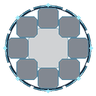
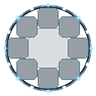
fix: アクションリングのTitle優先とスキル名の設定色を保持

diff --git a/10_plugin/AstralRecord/src/main/java/io/github/maaasu/astralRecord/feature/skill/service/SkillActionRingHud.java b/10_plugin/AstralRecord/src/main/java/io/github/maaasu/astralRecord/feature/skill/service/SkillActionRingHud.java
@@ -56,6 +56,7 @@ final class SkillActionRingHud {
         this.playerHud = playerHud;
         listener = new PacketAdapter(plugin, ListenerPriority.HIGHEST, PacketType.Play.Server.SET_ACTION_BAR_TEXT,
             PacketType.Play.Server.SYSTEM_CHAT, PacketType.Play.Server.SET_TITLE_TEXT,
+            PacketType.Play.Server.SET_SUBTITLE_TEXT, PacketType.Play.Server.SET_TITLES_ANIMATION,
             PacketType.Play.Server.CLEAR_TITLES) {
             @Override
             public void onPacketSending(PacketEvent event) {
@@ -100,9 +101,17 @@ final class SkillActionRingHud {
                 || type == PacketType.Play.Server.SYSTEM_CHAT && Boolean.TRUE.equals(event.getPacket().getBooleans().readSafely(0)))) {
                 event.setCancelled(true);
             }
-        } else if (type == PacketType.Play.Server.SET_TITLE_TEXT || type == PacketType.Play.Server.CLEAR_TITLES) {
-            // 到着したワールド案内や演出を優先し、閉じる際もその Title を消去しません。
-            view.titleSuperseded = true;
+        } else if (type == PacketType.Play.Server.SET_TITLE_TEXT
+            || type == PacketType.Play.Server.SET_SUBTITLE_TEXT
+            || type == PacketType.Play.Server.SET_TITLES_ANIMATION
+            || type == PacketType.Play.Server.CLEAR_TITLES) {
+            // 固定 HUD は閉じる演出まで Title を所有します。自身の送信は filters=false で監視を通りません。
+            if (view.sendFailed) {
+                // 送信失敗で所有を放棄した後に到着した Title は、後始末で消去しません。
+                view.titleSuperseded = true;
+            } else {
+                event.setCancelled(true);
+            }
         }
     }
 
@@ -133,9 +142,9 @@ final class SkillActionRingHud {
             this.bedrock = bedrock;
         }
 
-        /** 外部通知または送信失敗でリング表示が終了したかを返します。 */
+        /** 送信失敗でリング表示が終了したかを返します。 */
         boolean interrupted() {
-            return titleSuperseded || sendFailed;
+            return sendFailed;
         }
 
         /** 描画が変化したとき、または表示期限の前に、画面固定のフレームを送ります。 */

diff --git a/50_resourcepack/scripts/generate-action-ring-hud.py b/50_resourcepack/scripts/generate-action-ring-hud.py
@@ -79,7 +79,7 @@ def opening(frame):
     radius = 22 + 21 * ease
     fade = round(255 * ease)
     # Interior rings remain faint so the scenery and crosshair read through the center.
-    art.ellipse(CENTER, CENTER, 22 * ease, (7, 17, 29, round(48*ease)),
+    art.ellipse(CENTER, CENTER, 22 * ease, (7, 17, 29, round(36*ease)),
                 (57, 112, 132, round(125*ease)))
     art.ellipse(CENTER, CENTER, radius-2, None, (13, 35, 57, round(195*ease)))
     for slot in range(SLOTS):
@@ -90,8 +90,8 @@ def opening(frame):
         art.arc(CENTER, CENTER, radius-0.4, angle-9*ease, angle+9*ease, (153, 219, 239, fade))
         x, y = point(slot, 14 + 16 * ease)
         border = (60, 113, 141, round(219 * ease))
-        art.polygon(cut_square(x,y,10.4*ease,3.2*ease), (8,17,30,round(124*ease)), border)
-        art.polygon(cut_square(x,y,8.7*ease,2.6*ease), (13,26,42,round(132*ease)))
+        art.polygon(cut_square(x,y,10.4*ease,3.2*ease), (8,17,30,round(100*ease)), border)
+        art.polygon(cut_square(x,y,8.7*ease,2.6*ease), (13,26,42,round(108*ease)))
         dx, dy = point(slot, radius)
         art.polygon(diamond(dx,dy,2.1*ease), (151,225,242,fade))
     return art.image96()

diff --git a/10_plugin/AstralRecord/src/main/java/io/github/maaasu/astralRecord/feature/skill/service/SkillActionRingService.java b/10_plugin/AstralRecord/src/main/java/io/github/maaasu/astralRecord/feature/skill/service/SkillActionRingService.java
@@ -1702,13 +1702,13 @@ public final class SkillActionRingService {
             return hudSkillDetail(slot, status);
         }
 
-        /** 発動可否にかかわらず、装飾コードを取り除いた名前と現在の案内を並べます。 */
+        /** 発動可否にかかわらず、設定色を保持したスキル名と独立した色の案内を並べます。 */
         private static Component hudSkillDetail(SlotView slot, Component status) {
             String name = PlainTextComponentSerializer.plainText().serialize(legacyComponent(slot.name()));
             if (name.isBlank()) {
                 return status;
             }
-            Component label = Component.text(name, NamedTextColor.WHITE, TextDecoration.BOLD);
+            Component label = ColorCodeUtil.toComponent(slot.name(), "", NamedTextColor.WHITE).decorate(TextDecoration.BOLD);
             return status.equals(Component.empty()) ? label
                 : Component.empty().append(label).append(Component.space()).append(status);
         }

diff --git a/00_docs/10_Plugin設計書/feature/13-skill/3-メソッド仕様/13_3-イベント.md b/00_docs/10_Plugin設計書/feature/13-skill/3-メソッド仕様/13_3-イベント.md
@@ -58,9 +58,9 @@ Java 版の `ACTION_RING_HOLD_SELECT=false` は通常操作であり、設定済
 
 Java 版で対応パックの適用を確認した接続では、輪郭と8枠を画面中央に固定する。サーバーは枠の状態と視線の選択結果を送り、HUD はワールド座標や壁との距離に関係なく描画する。開くと輪郭が展開し、視線が移ると対象枠を短く光らせる。確定後は選んだアイコンを中央に拡大して発動を案内する。右クリックによる閉じる操作と選択時間切れでは短い終了演出を流し、発動・ワールド移動・退出などの終了処理では即時に解除する。
 
-クールダウンは枠ごとのゲージと注視中の残り秒数で示す。MP不足、ENG不足、その他の発動制限は明度とそれぞれの記号で区別し、注視時に理由を表示する。Java 版は枠の注視中と確定後に、スキル名を残り時間、発動不可の理由、または操作案内とともにリング中央の字幕に表示する。台帳にないスキルは共通の代替アイコンを使う。
+クールダウンは枠ごとのゲージと注視中の残り秒数で示す。MP不足、ENG不足、その他の発動制限は明度とそれぞれの記号で区別し、注視時に理由を表示する。Java 版は枠の注視中と確定後に、スキル名を残り時間、発動不可の理由、または操作案内とともにリング中央の字幕に表示する。スキル名は設定された色を注視中・確定後ともに保持し、色指定がない部分は白の太字にする。残り時間や発動不可の理由などの状態メッセージはスキル名と独立した色で表示する。台帳にないスキルは共通の代替アイコンを使う。
 
-Java 版は専用フォントを Title に描画し、別の Title が来たらリングを終了する。HUD 対応を確認できない接続では、目の位置に追従する従来の Display 表示を使う。従来表示は障害物の手前で縮み、Java 版の通常追従は位置と変形を2 tickで補間する。
+Java 版は専用フォントを Title に描画し、リング表示中から閉じる演出の完了まで本人の Title 表示を所有する。この間、外部の `SET_TITLE_TEXT`、`SET_SUBTITLE_TEXT`、`SET_TITLES_ANIMATION`、`CLEAR_TITLES` は抑止し、終了後の再送は行わない。リング自身の送信はパケット監視を通さない。送信失敗時は所有を放棄して外部 Title を通し、その後に届いた Title は後始末で消去しない。閉じた後や別プレイヤーの Title、互換表示にはこの抑止を適用しない。HUD 対応を確認できない接続では、目の位置に追従する従来の Display 表示を使う。従来表示は障害物の手前で縮み、Java 版の通常追従は位置と変形を2 tickで補間する。
 
 ## 4. active skill lifecycle
 
